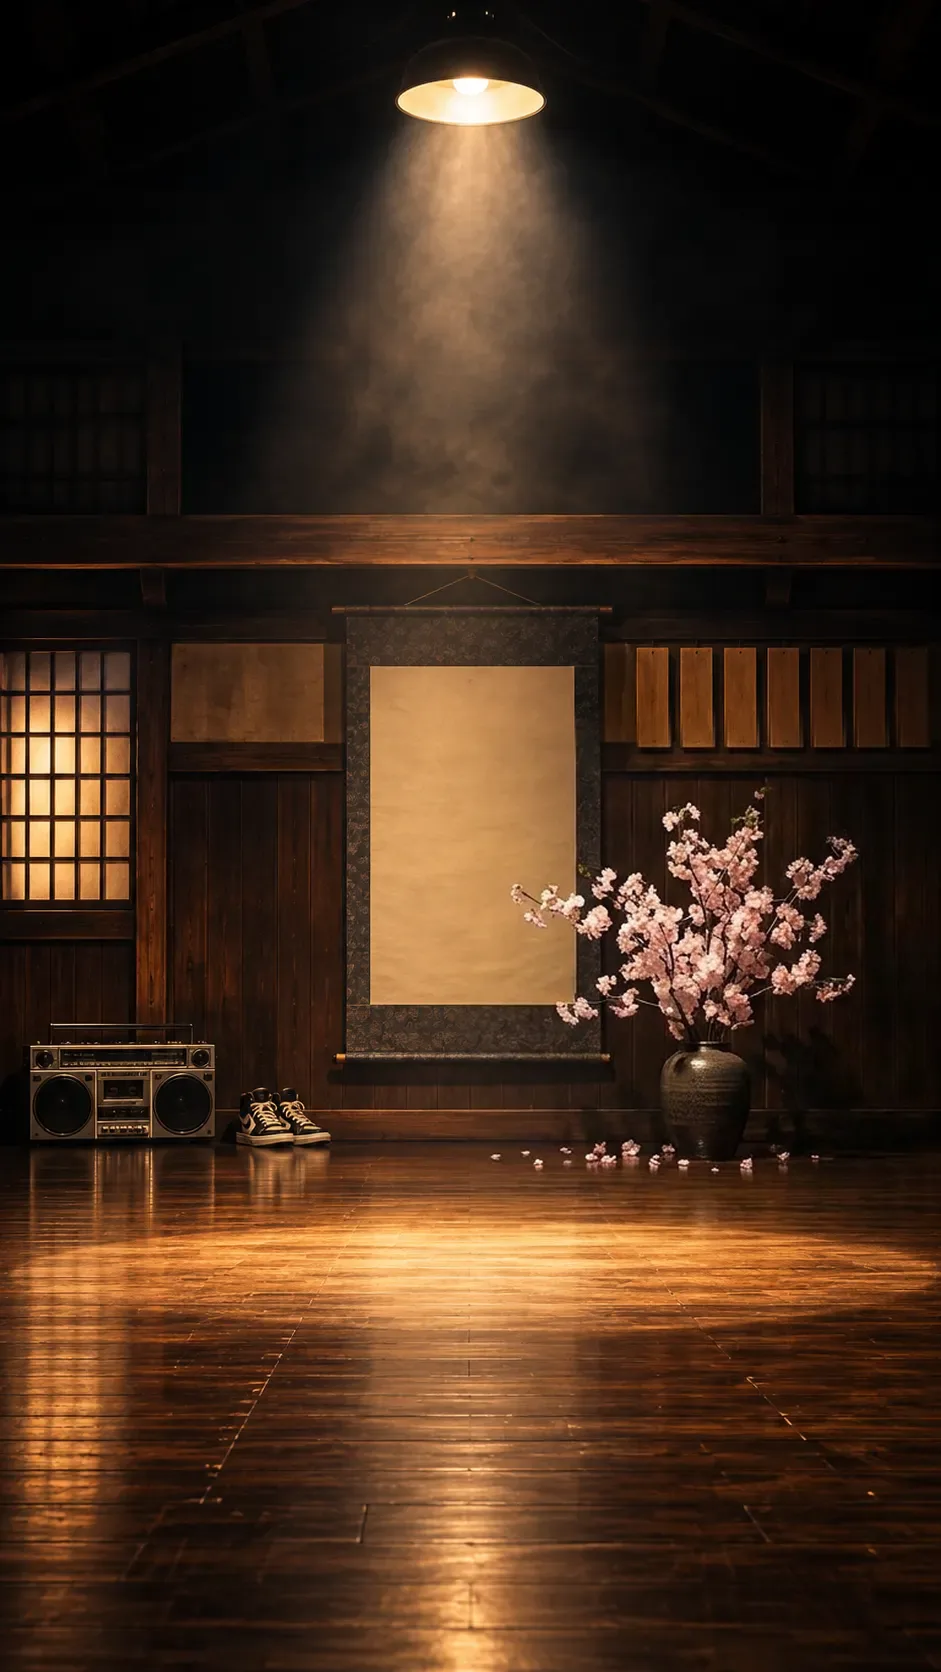
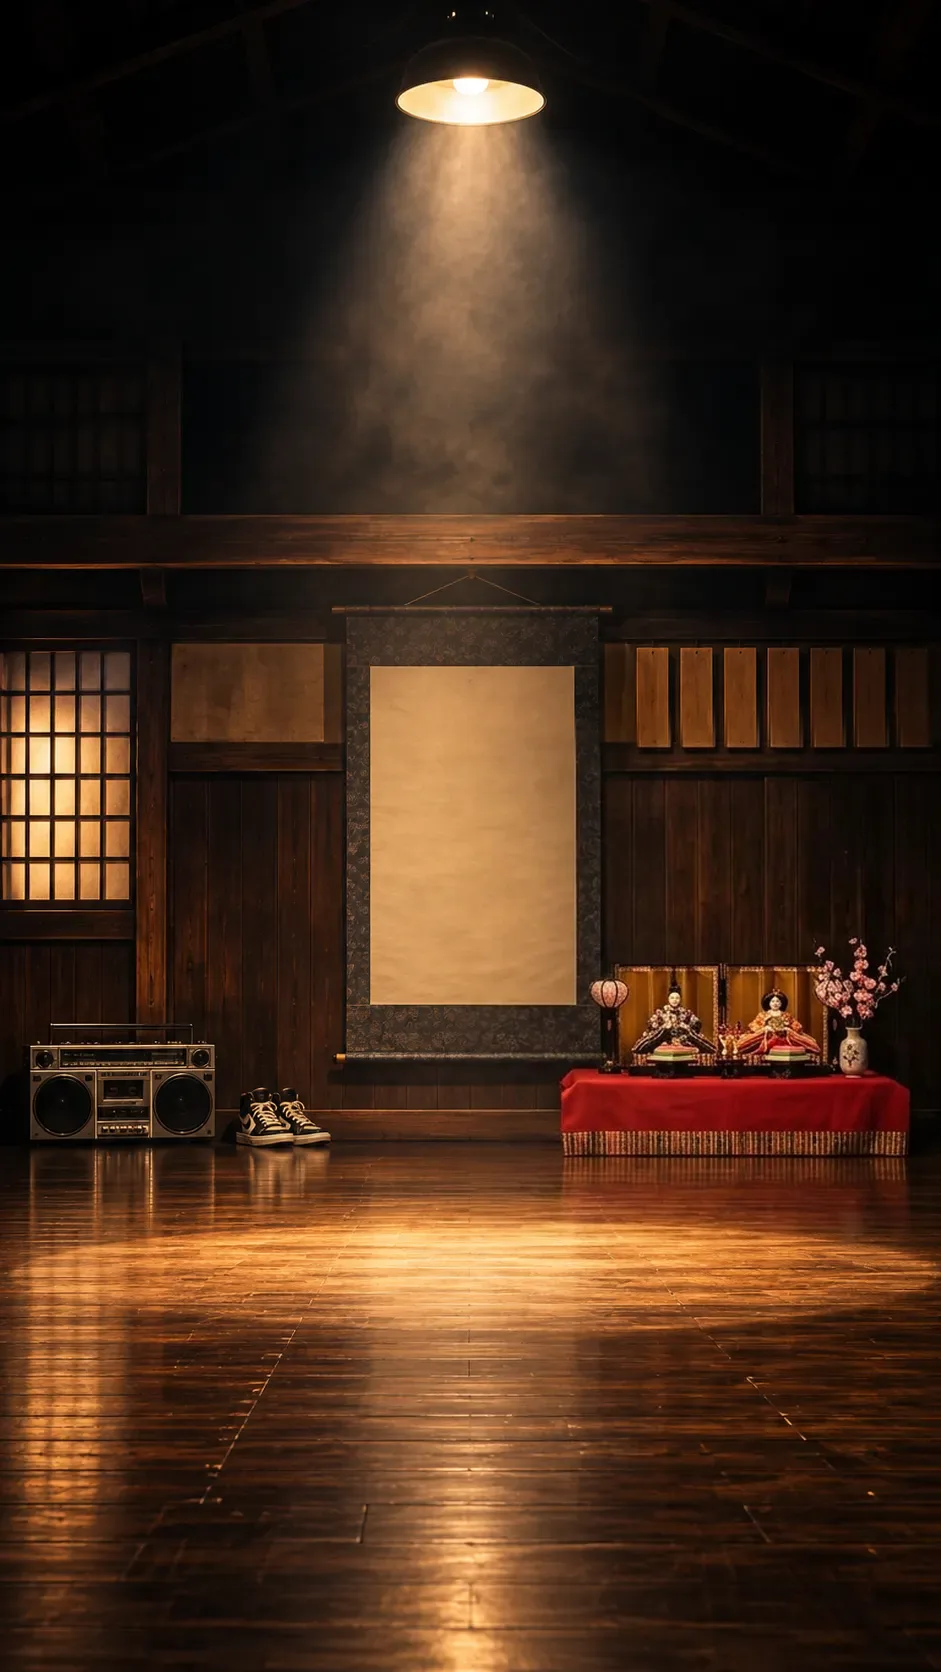
BOOM DOJO：3月のシンボルをひな祭りに・桜は4月用に（TARO 11/22）

Changed region(s): [[0.5547, 0.4665, 0.9862, 0.7464]]

diff --git a/src/app/dojo/ui.tsx b/src/app/dojo/ui.tsx
@@ -29,11 +29,11 @@ export function BattleShell({ children }: { children: ReactNode }) {
  * 位置の元は見本(mockA.html・幅390px)の数値を％に直したもの。
  */
 /**
- * 開催月の背景。奥の床に月のシンボル(12月=ツリー・1月=鏡餅とみかん・2月=豆と鬼の面・3月=桜)を
+ * 開催月の背景。奥の床に月のシンボル(12月=ツリー・1月=鏡餅とみかん・2月=豆と鬼の面・3月=ひな祭り・4月=桜)を
  * 写真になじませて置いた版。どの回かひと目でわかるように(TARO 11/22)。背景ごと替えるので電球のちらつきも一緒にかかる。
  * 用意のない月はふつうの背景。
  */
-const DOJO_SEASON_MONTHS = new Set(['12', '01', '02', '03']);
+const DOJO_SEASON_MONTHS = new Set(['12', '01', '02', '03', '04']);
 export function dojoBackground(ymd: string): string {
   const m = /^\d{4}-(\d{2})-\d{2}$/.exec(ymd)?.[1];
   return m && DOJO_SEASON_MONTHS.has(m) ? `/dojo/season/bg_m${m}.webp` : '/dojo/bg_dojo.webp';
